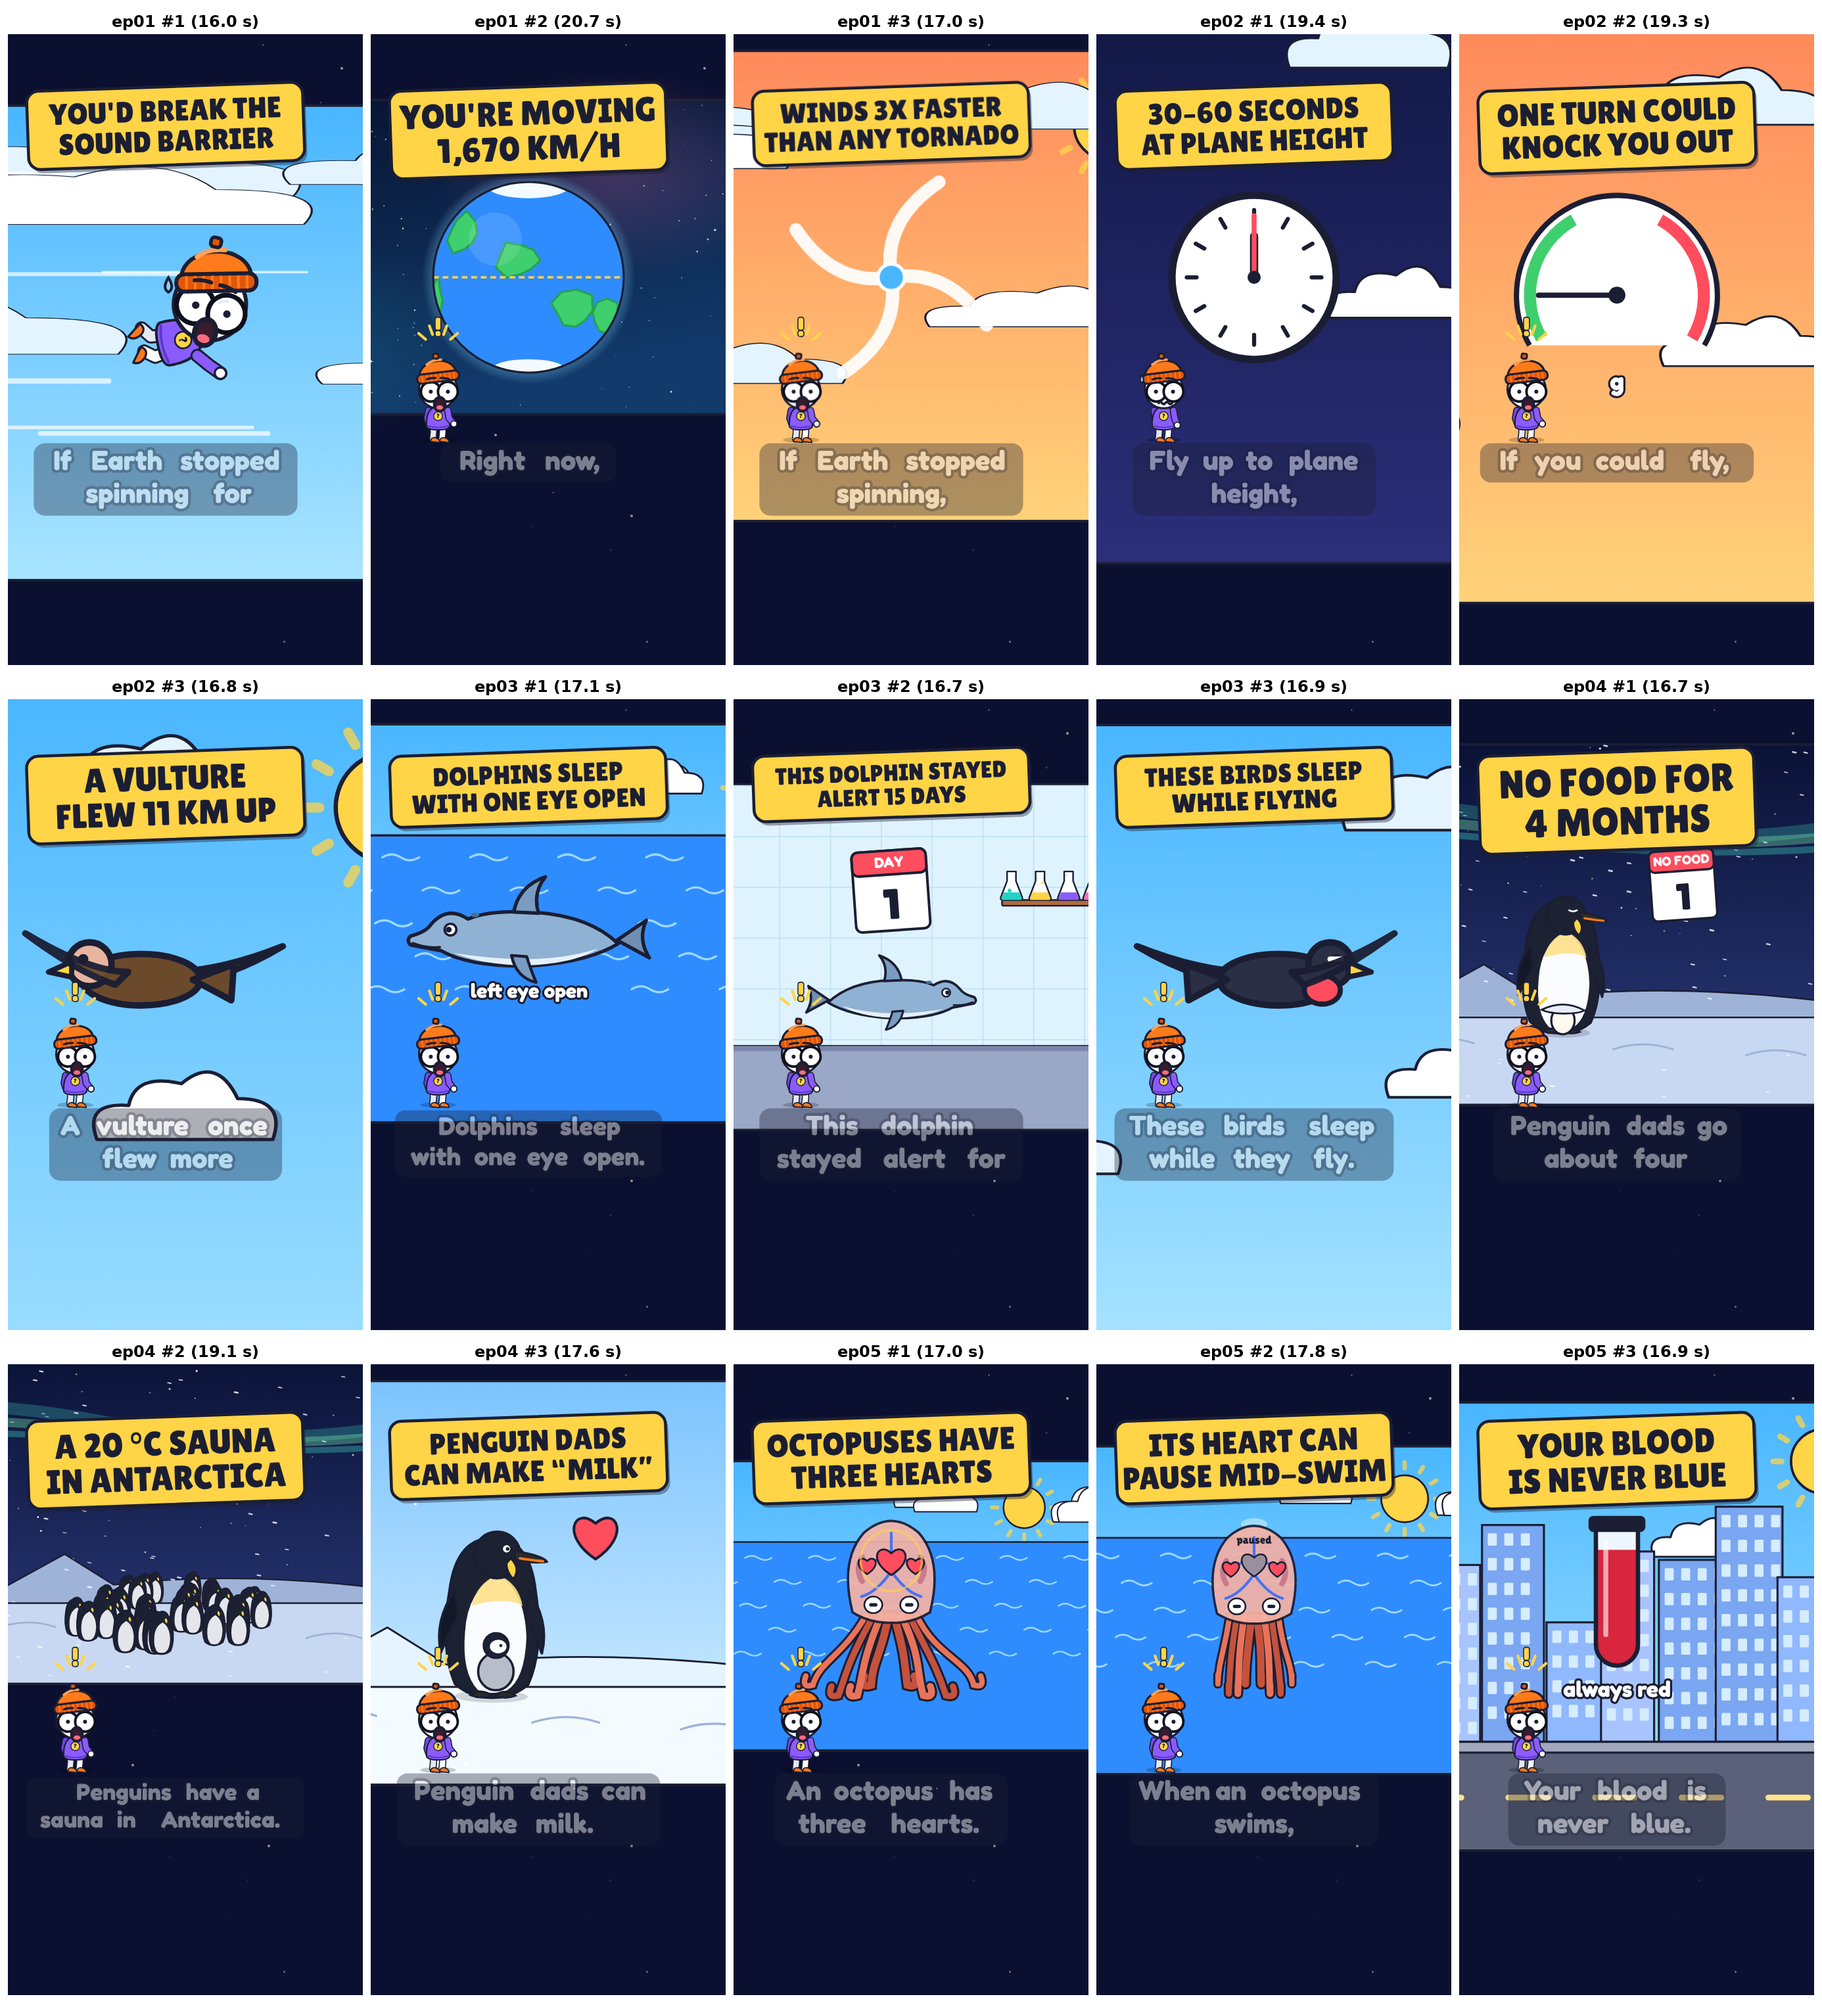
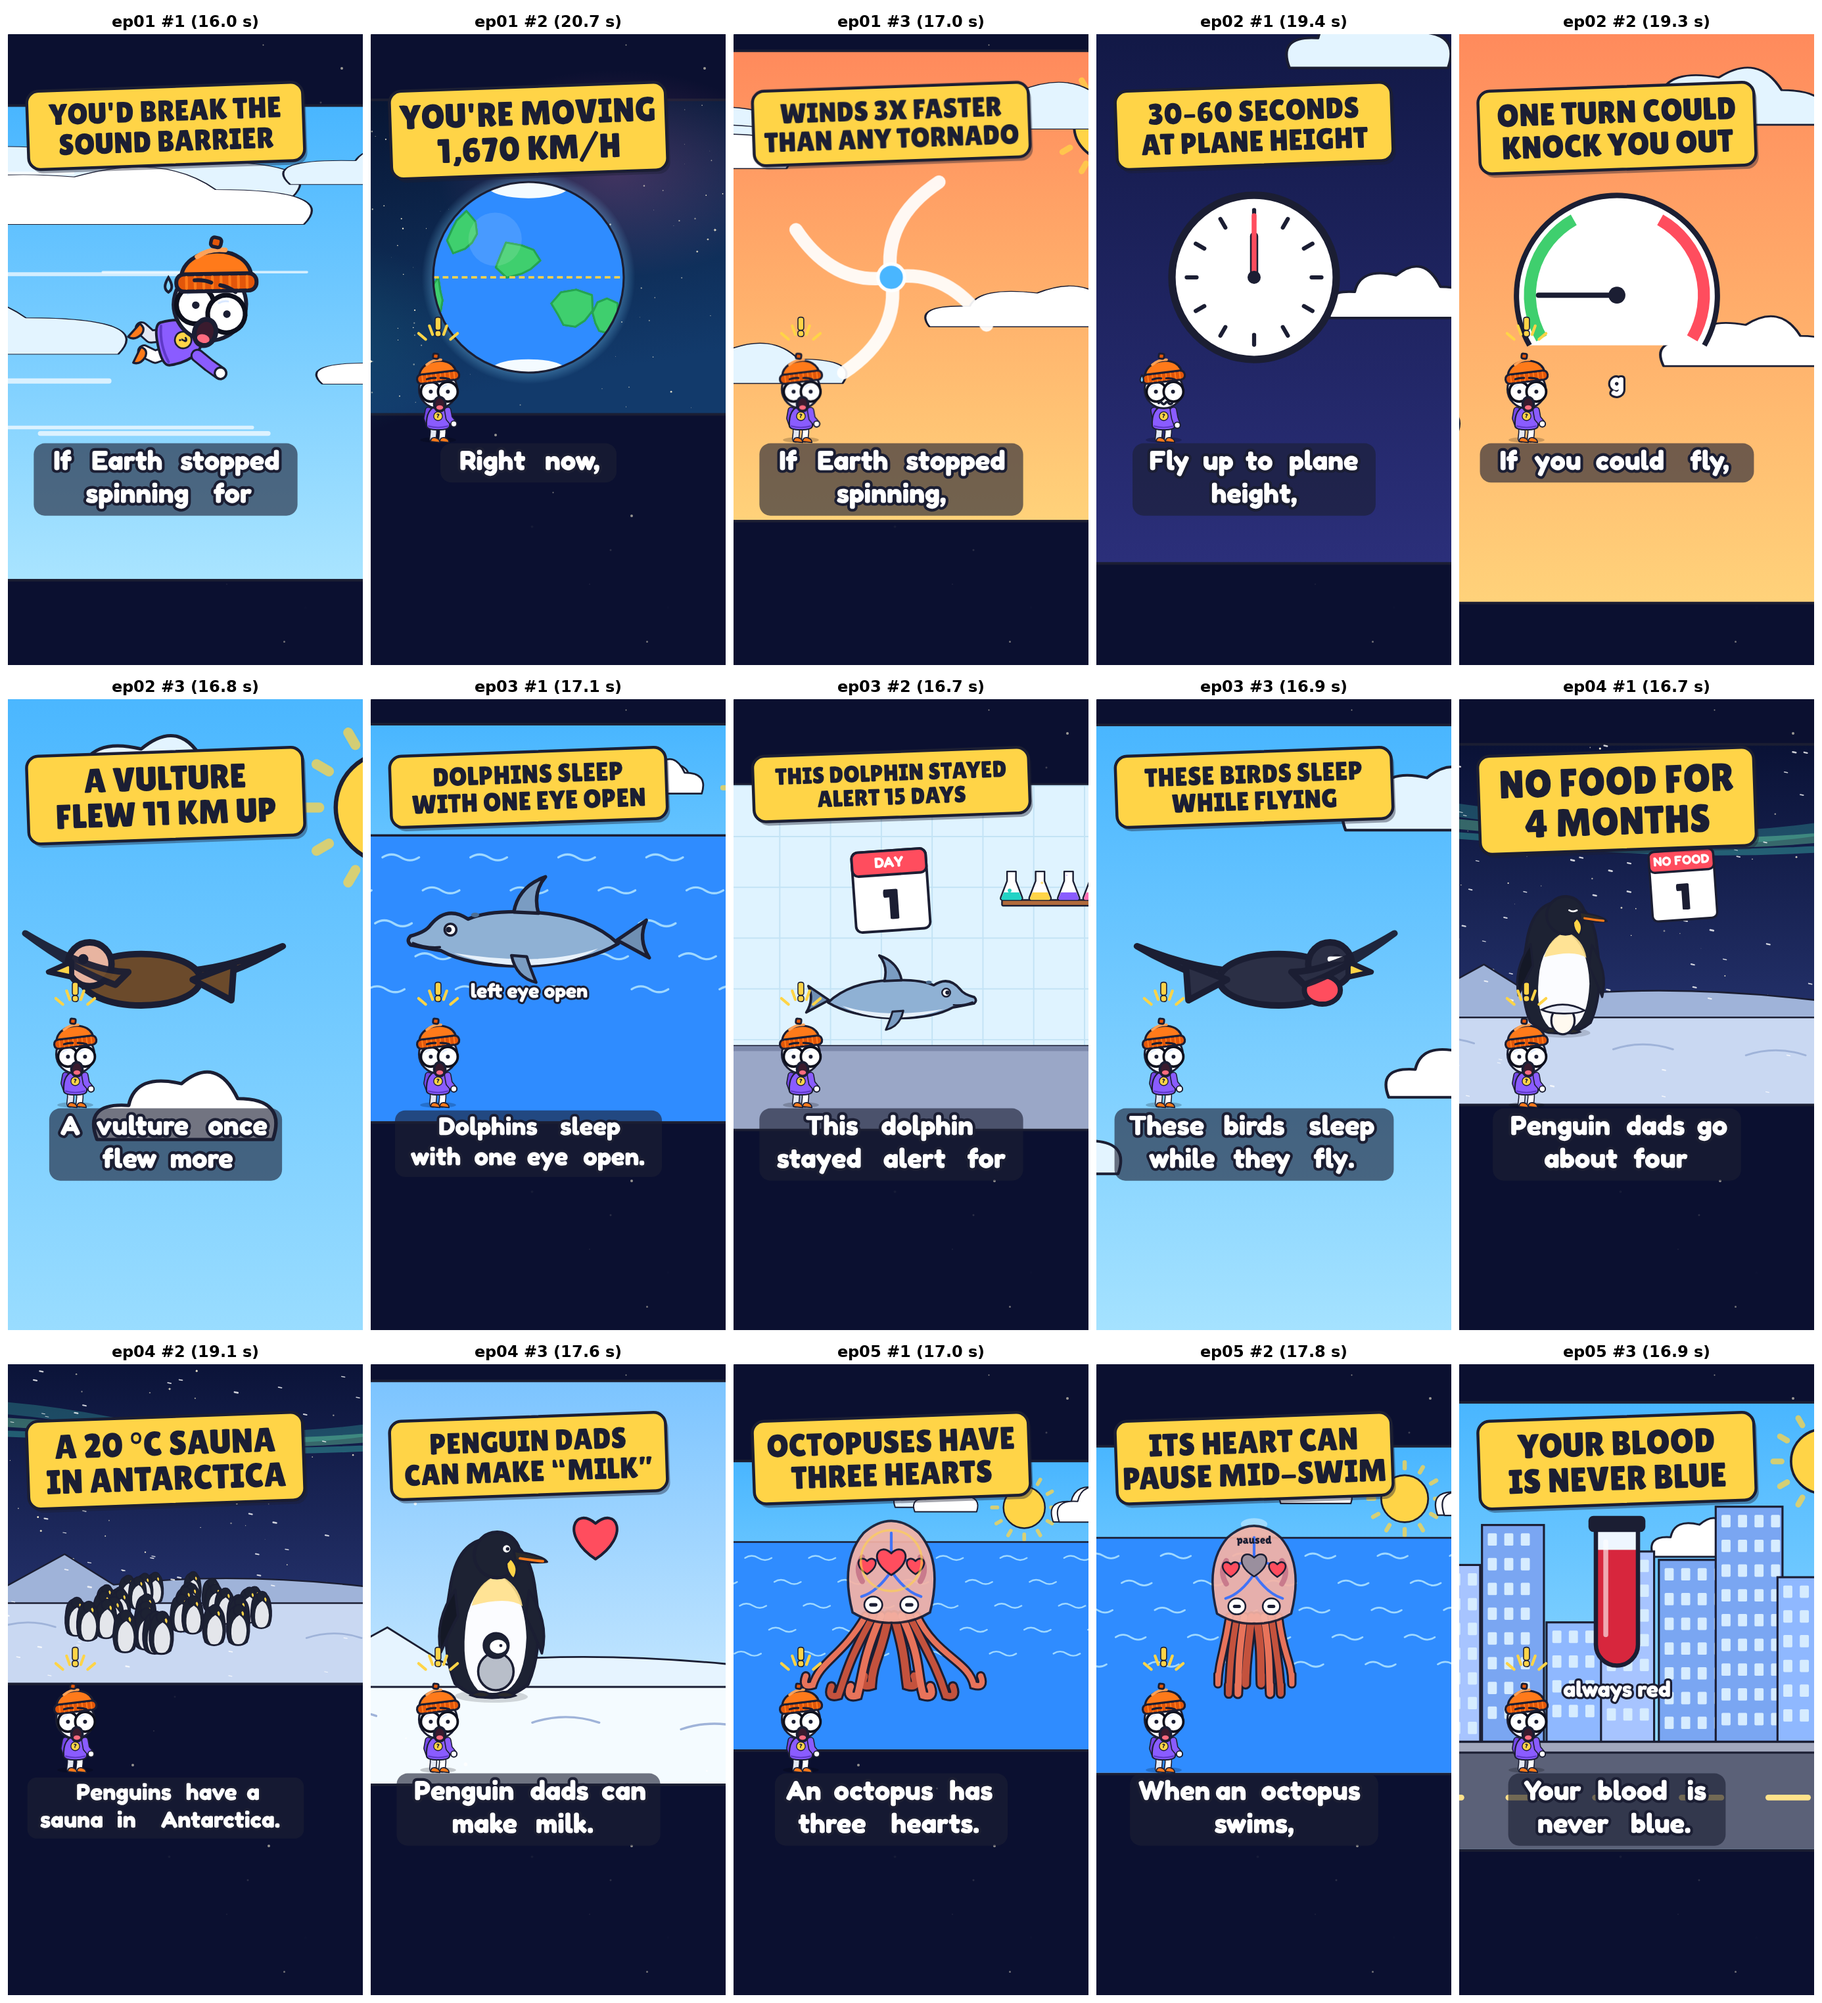
TikTok Shorts: captions fully visible from frame 0 (no fade-in, no dimmed words)
Claude-Session: https://claude.ai/code/session_01QAPYhuJsauCtuRY7TkqXG2

diff --git a/src/scene/Hud.tsx b/src/scene/Hud.tsx
@@ -113,14 +113,18 @@ export const Chip: React.FC<{ spec: ChipSpec; t: number; x?: number; y?: number;
 // ---------------------------------------------------------------- captions
 
 /** y: baseline of the last line (or of the first line when top = true); maxLines: shrink the text to fit. */
-export type CaptionLayout = { y: number; size: number; maxWidth: number; centerX: number; maxLines?: number; top?: boolean; pill?: boolean; dim?: number };
+/** fadeIn: false shows each caption page at full opacity from its first frame; dim: opacity of words not yet spoken. */
+export type CaptionLayout = {
+  y: number; size: number; maxWidth: number; centerX: number; maxLines?: number; top?: boolean; pill?: boolean; dim?: number; fadeIn?: boolean;
+};
 
 export const LONG_CAPTIONS: CaptionLayout = { y: 985, size: 62, maxWidth: 1500, centerX: 960 };
 // Shorts: inside the safe zone (clear of the right-hand buttons and bottom UI of TikTok / Shorts)
 // and below the presenter spot (Bix's feet at y 1275): at most two lines, growing downward.
 export const SHORT_CAPTIONS: CaptionLayout = { y: 1345, size: 76, maxWidth: 800, centerX: 480, maxLines: 2, top: true };
 // TikTok-optimised Shorts: bigger captions, same safe position.
-export const TIKTOK_CAPTIONS: CaptionLayout = { y: 1325, size: 84, maxWidth: 800, centerX: 480, maxLines: 2, top: true, pill: true, dim: 0.8 };
+// TikTok Shorts: fully visible from frame 0 (no fade-in, no dimmed words); the spoken word still turns yellow.
+export const TIKTOK_CAPTIONS: CaptionLayout = { y: 1325, size: 84, maxWidth: 800, centerX: 480, maxLines: 2, top: true, pill: true, dim: 1, fadeIn: false };
 
 /** Word-by-word captions: the current page is shown, the spoken word pops in yellow. */
 export const Captions: React.FC<{ pages: CaptionPage[]; t: number; layout: CaptionLayout }> = ({ pages, t, layout }) => {
@@ -148,7 +152,7 @@ export const Captions: React.FC<{ pages: CaptionPage[]; t: number; layout: Capti
   const { size, space, widths, lines } = fit;
   const lineH = size * 1.2;
   const y0 = layout.top ? layout.y : layout.y - (lines.length - 1) * lineH;
-  const pageIn = easeOut((t - page.start + 0.05) / 0.12);
+  const pageIn = layout.fadeIn === false ? 1 : easeOut((t - page.start + 0.05) / 0.12);
   const lineW = lines.map((ln) => ln.reduce((sum, i) => sum + widths[i], 0) + space * (ln.length - 1));
   const pillW = Math.max(...lineW) + size * 0.9;
   return (

diff --git a/tests/tiktok.test.ts b/tests/tiktok.test.ts
@@ -2,6 +2,7 @@ import { describe, expect, it } from 'vitest';
 import fs from 'node:fs';
 import path from 'node:path';
 import { checkShortFraming, punchZoom, TIKTOK } from '../src/scene/shortLayout';
+import { TIKTOK_CAPTIONS } from '../src/scene/Hud';
 // @ts-expect-error plain ES module
 import { loadEpisode } from '../pipeline/lib/script.mjs';
 // @ts-expect-error plain ES module
@@ -43,6 +44,11 @@ describe('TikTok-optimised Shorts', () => {
     expect(bad).toMatch(/must reuse the first scene/);
   });
 
+  it('burns captions in at full opacity from frame 0 (no fade-in, no dimmed words)', () => {
+    expect(TIKTOK_CAPTIONS.fadeIn).toBe(false);
+    expect(TIKTOK_CAPTIONS.dim).toBe(1);
+  });
+
   it('snap zooms toggle on beats and return to 1 at the end (seamless loop)', () => {
     const p = { beats: [1, 2], end: 5 };
     expect(punchZoom(0.5, p)).toBe(1);
@@ -72,6 +78,8 @@ describe('TikTok-optimised Shorts', () => {
         expect(manifest.scenes.some((s: { kind?: string }) => s.kind === 'cta')).toBe(false);
         expect(longestGap(events, manifest.duration)).toBeLessThanOrEqual(MAX_GAP);
         expect(manifest.captions[0].words[0].start).toBeLessThanOrEqual(0.3);
+        // the first caption page is already on screen at frame 0 (Captions shows a page from start - 0.05 s)
+        expect(manifest.captions[0].start).toBeLessThanOrEqual(0.05);
         const pacing = { beats: manifest.tiktok.beats, end: manifest.duration, hardCuts: true, profile: TIKTOK };
         expect(checkShortFraming(manifest.scenes, { seconds: manifest.duration, pacing }), `${id} #${sh.n}`).toEqual([]);
         expect(sidecarText(sh, manifest.duration)).toMatch(/On-screen hook: .*\nTikTok caption: .*\nYouTube Shorts title: .*\nEnd question: /);
